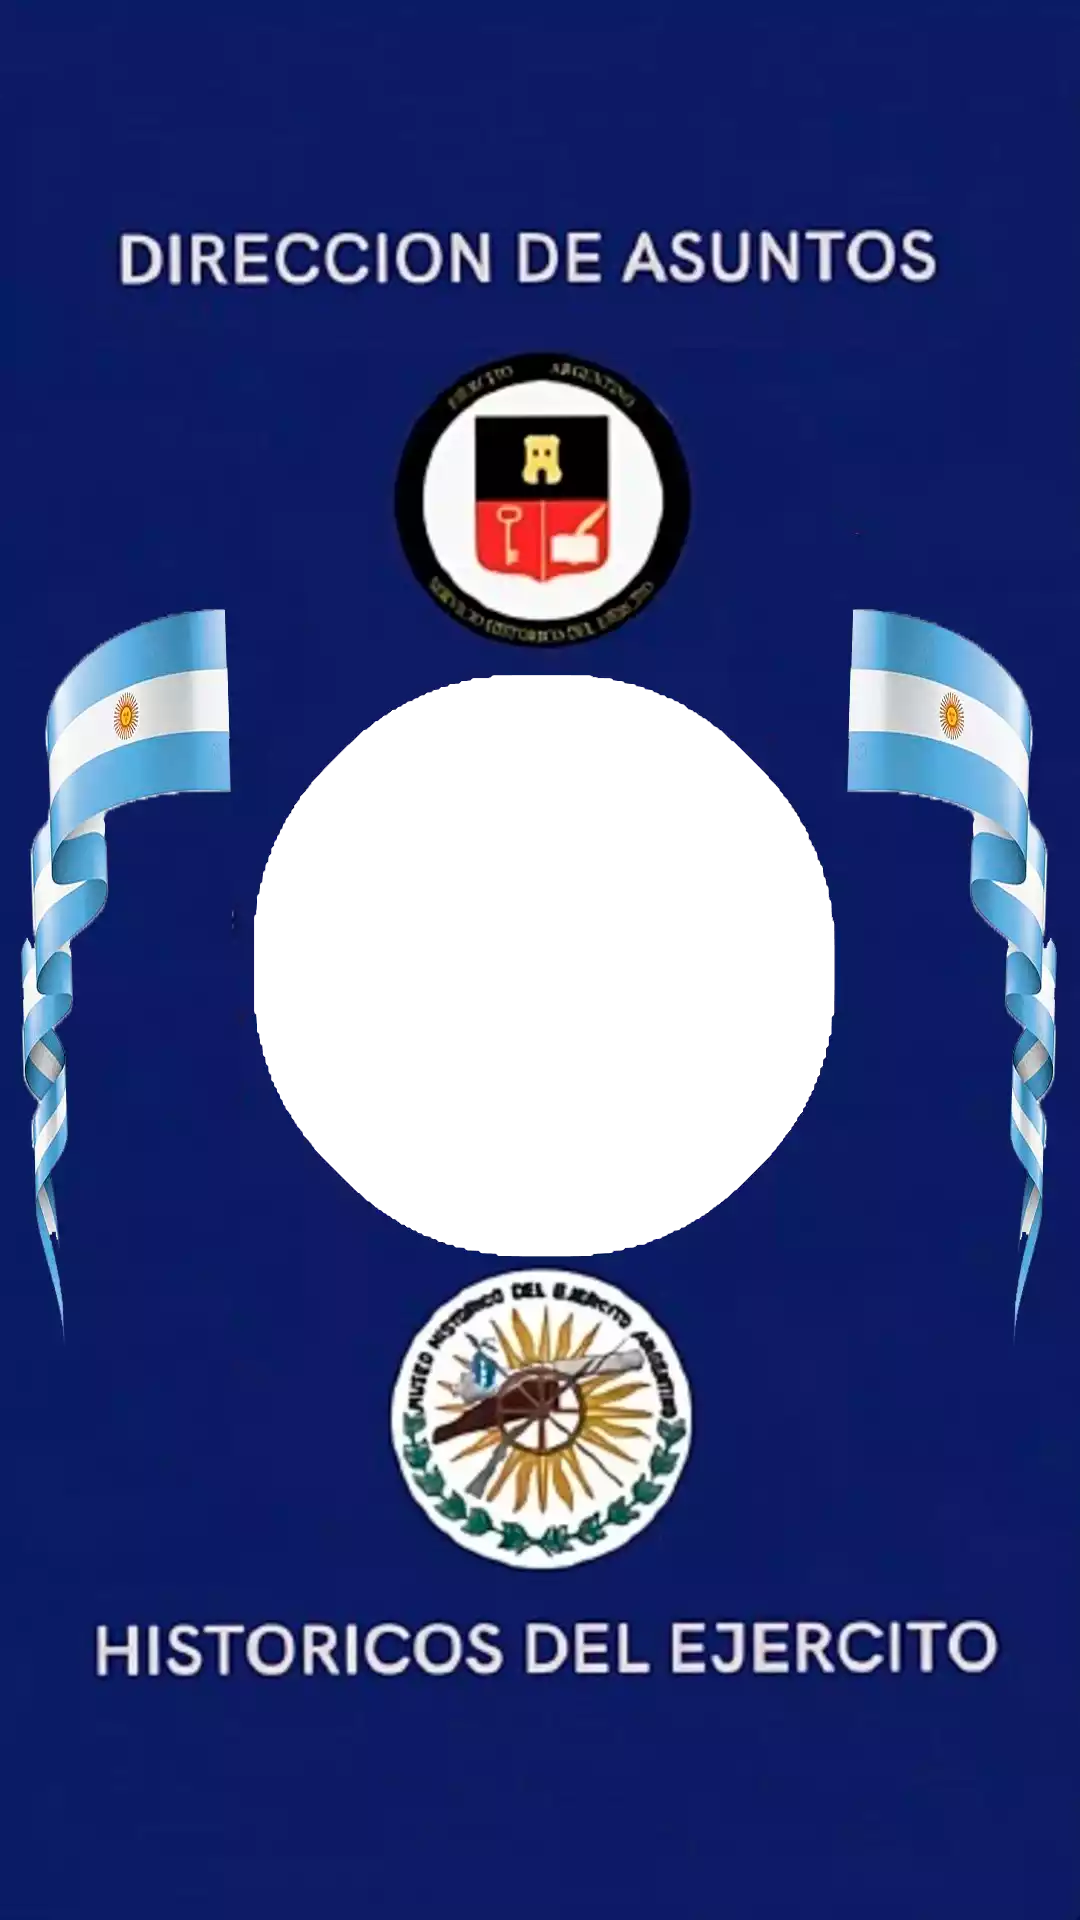
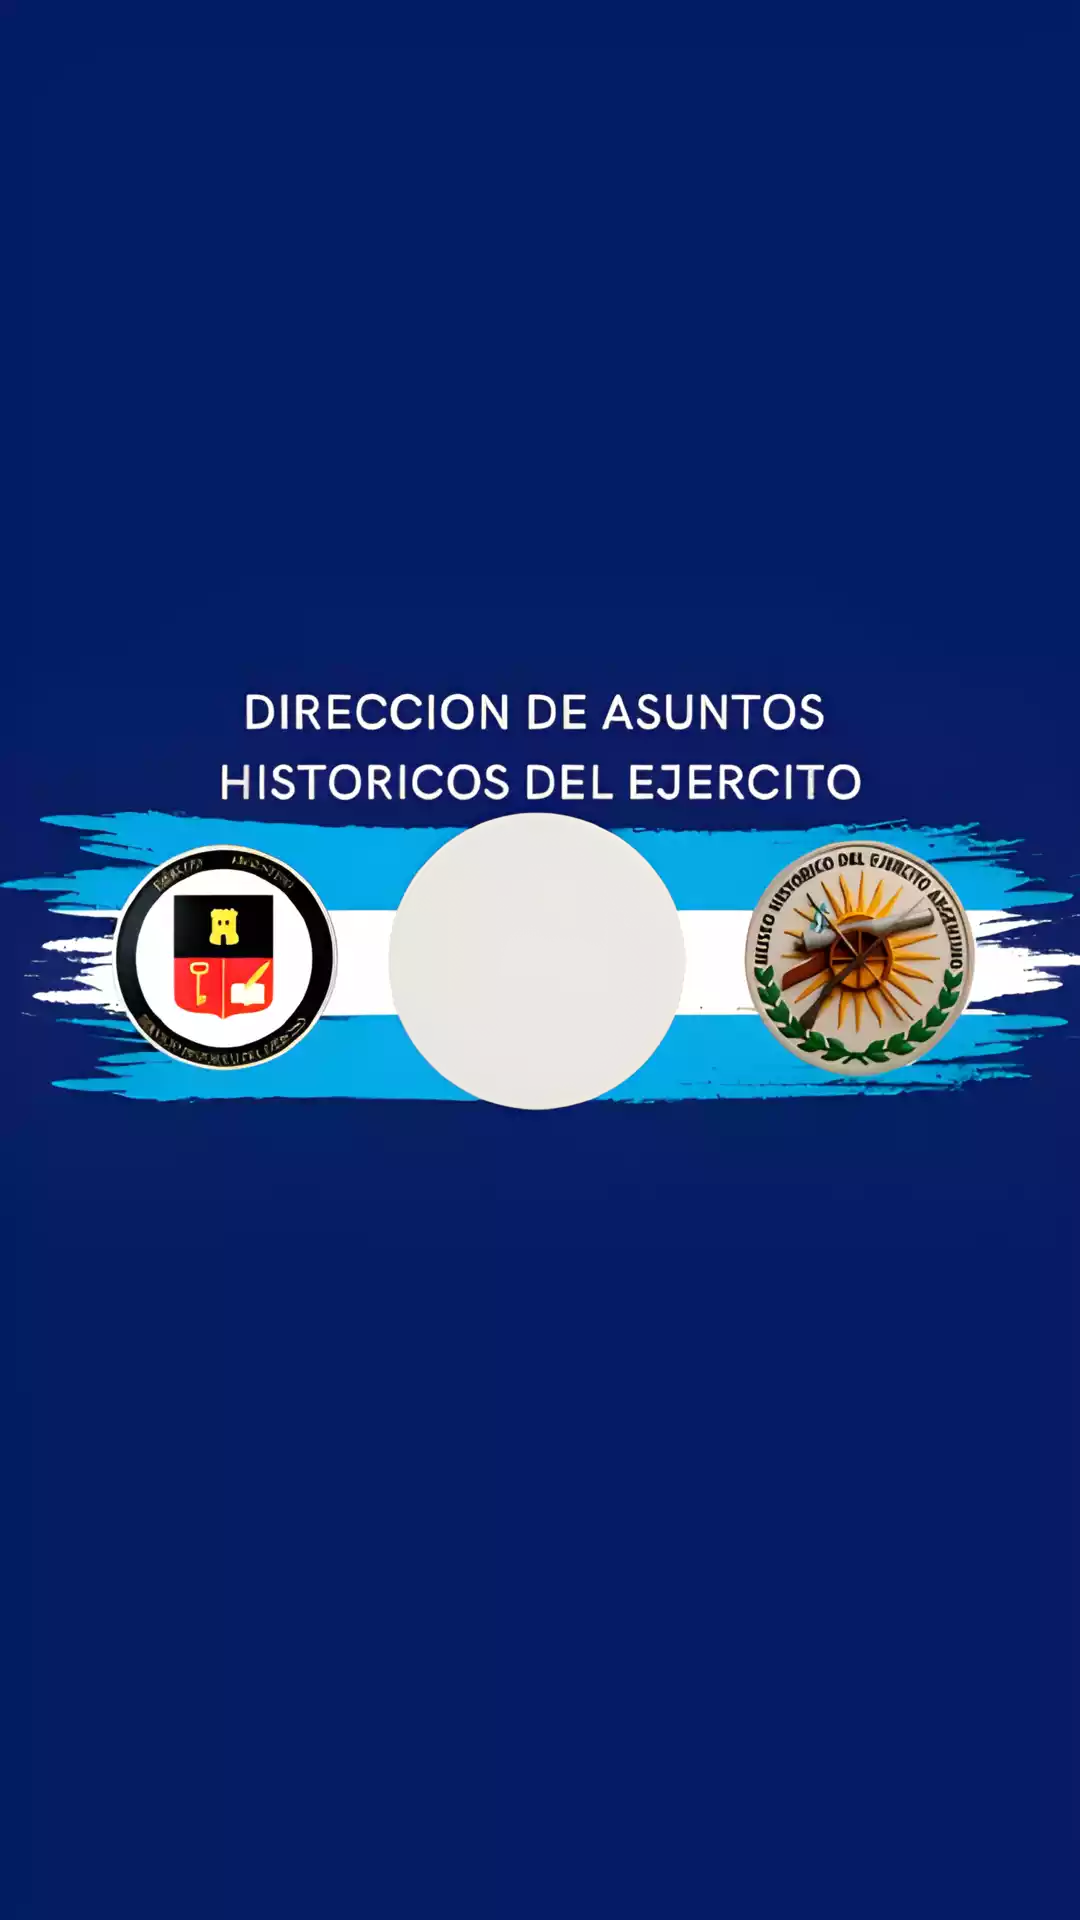
animacion perfecta

diff --git a/index.html b/index.html
@@ -15,18 +15,16 @@
 </head>
 
 <body>
-    <section id="top" class="pc">
+    <section id="top">
         <img src="./multimedia/1.webp" id="background" alt="Fondo" class="pc">
-        <img src="./multimedia/3.webp" id="background2" alt="Fondo" class="cell">
+        <img src="./multimedia/3.webp" id="cellBackground" alt="Fondo" class="cell">
         <img src="./multimedia/2.webp" id="circle" alt="Círculo" class="pc">
         <img src="./multimedia/4.webp" id="circle" alt="Círculo" class="cell">
-        <img src="./multimedia/dahe.webp"  alt="Círculo" class="circulo-cell">
-
+        <img src="./multimedia/dahe.webp" alt="Círculo" class="circulo-cell">
         <h1 id="title">BIENVENIDOS</h1>
-
-        <!-- Flecha -->
         <a href="#ejemplo" class="arrow-down">&#x25BC;</a>
     </section>
+
 
     <main class="container" id="ejemplo">
         <h2>RESEÑA HISTÓRICA</h2>
@@ -93,8 +91,8 @@
         <p>Más contenido de prueba...</p>
     </section>
 
-    <script>
-        
+    <!--  <script>
+
         const background = document.getElementById('background');
         const title = document.getElementById('title');
         const topSection = document.getElementById('top');
@@ -132,51 +130,51 @@
                 topSection.style.visibility = "visible"; // reaparece al subir
             }
         });
-/*         const isMobile = window.innerWidth <= 767;
-
-        if (isMobile) {
-            loadMobileScrollEffect();
-        } else {
-            loadPcScrollEffect();
-        }
-
-        function loadPcScrollEffect() {
-            const background = document.getElementById('background');
-            const title = document.getElementById('title');
-            const topSection = document.getElementById('top');
-
-            window.addEventListener('scroll', () => {
-                let scroll = window.scrollY;
-                let scale = 1 + scroll / 200;
-                if (scale > 10) scale = 10;
-                if (scale < 1) scale = 1;
-
-                background.style.transform = `translate(-50%, -50%) scale(${scale})`;
-
-                if (scale > 4) {
-                    background.style.opacity = `${Math.max(0, 1 - (scale - 4) / 2)}`;
+        /*         const isMobile = window.innerWidth <= 767;
+        
+                if (isMobile) {
+                    loadMobileScrollEffect();
                 } else {
-                    background.style.opacity = 1;
+                    loadPcScrollEffect();
                 }
-
-                if (scale >= 6) {
-                    title.style.opacity = 1;
-                } else {
-                    title.style.opacity = 0;
+        
+                function loadPcScrollEffect() {
+                    const background = document.getElementById('background');
+                    const title = document.getElementById('title');
+                    const topSection = document.getElementById('top');
+        
+                    window.addEventListener('scroll', () => {
+                        let scroll = window.scrollY;
+                        let scale = 1 + scroll / 200;
+                        if (scale > 10) scale = 10;
+                        if (scale < 1) scale = 1;
+        
+                        background.style.transform = `translate(-50%, -50%) scale(${scale})`;
+        
+                        if (scale > 4) {
+                            background.style.opacity = `${Math.max(0, 1 - (scale - 4) / 2)}`;
+                        } else {
+                            background.style.opacity = 1;
+                        }
+        
+                        if (scale >= 6) {
+                            title.style.opacity = 1;
+                        } else {
+                            title.style.opacity = 0;
+                        }
+        
+                        if (scale >= 8) {
+                            topSection.style.opacity = 0;
+                            topSection.style.visibility = "hidden";
+                        } else {
+                            topSection.style.opacity = 1;
+                            topSection.style.visibility = "visible";
+                        }
+                    });
                 }
-
-                if (scale >= 8) {
-                    topSection.style.opacity = 0;
-                    topSection.style.visibility = "hidden";
-                } else {
-                    topSection.style.opacity = 1;
-                    topSection.style.visibility = "visible";
-                }
-            });
-        } */
-/* 
+         */
         function loadMobileScrollEffect() {
-            const background = document.getElementById('background2');
+            const background = document.getElementById('cellBackground');
             const title = document.getElementById('title');
             const topSection = document.getElementById('top');
 
@@ -208,10 +206,56 @@
                     topSection.style.visibility = "visible";
                 }
             });
-        } */
-    </script>
+        } const isMobile = window.innerWidth <= 767;
+        if (isMobile) {
+            loadMobileScrollEffect();
+        }
+
+    </script> -->
     <script>
-       
+        const title = document.getElementById('title');
+        const topSection = document.getElementById('top');
+        const isMobile = window.innerWidth <= 767;
+
+        const background = isMobile
+            ? document.getElementById('cellBackground') // usa 3.webp en móvil
+            : document.getElementById('background');    // usa 1.webp en PC
+
+        window.addEventListener('scroll', () => {
+            let scroll = window.scrollY;
+            let scale = 1 + scroll / 200;
+            if (scale > 10) scale = 10;
+            if (scale < 1) scale = 1;
+
+            background.style.transform = `translate(-50%, -50%) scale(${scale})`;
+
+            // Efecto de desvanecimiento
+            if (scale > 4) {
+                background.style.opacity = `${Math.max(0, 1 - (scale - 4) / 2)}`;
+            } else {
+                background.style.opacity = 1;
+            }
+
+            // Título
+            if (scale >= 6) {
+                title.style.opacity = 1;
+            } else {
+                title.style.opacity = 0;
+            }
+
+            // Desaparecer sección top
+            if (scale >= 8) {
+                topSection.style.opacity = 0;
+                topSection.style.visibility = "hidden";
+            } else {
+                topSection.style.opacity = 1;
+                topSection.style.visibility = "visible";
+            }
+        });
+    </script>
+
+    <script>
+
         document.querySelector('.arrow-down').addEventListener('click', function (e) {
             e.preventDefault();
             const target = document.querySelector(this.getAttribute('href'));
@@ -248,4 +292,5 @@
         });
     </script>
 </body>
+
 </html>

diff --git a/styles/scss/styles.css b/styles/scss/styles.css
@@ -39,14 +39,26 @@ body {
   display: none;
 }
 
-#background,
-#background2 {
+#cellBackground {
   position: absolute;
   top: 50%;
   left: 50%;
   transform: translate(-50%, -50%) scale(1);
   width: 100%;
-  height: 100%;
+  /* Asegura que las imágenes cubran toda la pantalla */
+  background-position: center;
+  z-index: 1;
+  transition: opacity 0.3s ease-out, background-image 0.3s ease-in-out;
+}
+
+#background {
+  position: absolute;
+  top: 50%;
+  left: 50%;
+  transform: translate(-50%, -50%) scale(1);
+  width: 100dvw;
+  height: auto;
+
   background-size: cover;
   /* Asegura que las imágenes cubran toda la pantalla */
   background-position: center;
@@ -60,8 +72,8 @@ body {
   left: 50%;
   transform: translate(-50%, -50%);
   z-index: 0;
-  width: 100%;
-  height: 100%;
+  width: 100dvw;
+  height: auto;
   pointer-events: none;
 }
 
@@ -106,53 +118,125 @@ section {
 }
 
 
+
 /* RESPONSIVE */
 @media screen and (max-width: 767px) and (orientation: portrait) {
-   #circle.pc {
+  #circle.pc {
     display: none;
-  } 
-
-   #circle.cell {
-    display: block;
-
-    height: 100vh;
   }
 
-#background,
-#background2 {
-  height: auto;
-}
+  #circle.cell {
+    display: block;
+    aspect-ratio: 1080 / 1920;
+    /* 
+    width: 100dvw; */
+  }
+
+  #background,
+  #background2 {
+    display: none;
+  }
 
   #title {
     font-size: 5rem;
+  }
+
+  .circulo-cell {
+    display: block !important;
+  }
+
+  .pc {
+    display: none !important;
+    /* Oculta elementos de PC */
+  }
+
+  .cell {
+    display: block !important;
+    /* Muestra elementos móviles */
+  }
+
+  #cellBackground {
+    position: absolute;
+    top: 50%;
+    left: 50%;
+    transform: translate(-50%, -50%);
+    width: 100dvw;
+    height: auto;
+    z-index: 1;
+  }
+
+  #title {
+    font-size: 5rem;
+  }
+
+  .circulo-cell {
+    display: block !important;
   }
 }
 
 @media screen and (max-width: 767px) and (orientation: landscape) {
-    #circle.pc {
+  #circle.pc {
     display: none;
-  } 
-
-   #circle.cell {
-    display: block;
-
-    height: 100vh;
   }
-#background,
-#background2 {
-  height: auto;
-}
+
+  #circle.cell {
+    display: block;
+    /* 
+
+    height: 100vh; */
+  }
+
+  #background {
+    display: none;
+  }
+
   #title {
     font-size: 5rem;
   }
+
+  .circulo-cell {
+    display: block !important;
+  }
+
+  .pc {
+    display: none !important;
+    /* Oculta elementos de PC */
+  }
+
+  .cell {
+    display: block !important;
+    /* Muestra elementos móviles */
+  }
+
+  #cellBackground {
+    position: absolute;
+    top: 50%;
+    left: 50%;
+    transform: translate(-50%, -50%);
+    width: 100dvw;
+    height: auto;
+    z-index: 1;
+  }
+
+  #title {
+    font-size: 5rem;
+  }
+
+  .circulo-cell {
+    display: block !important;
+  }
+
 }
-.circulo-cell{
-  width: 90px;
+
+.circulo-cell {
+  width: 28VW;
   height: auto;
   position: fixed;
   align-items: center;
-  z-index: 4;
+  z-index: 2;
+  display: none;
 }
+
 .arrow-down {
   position: absolute;
   bottom: 3dvh;
